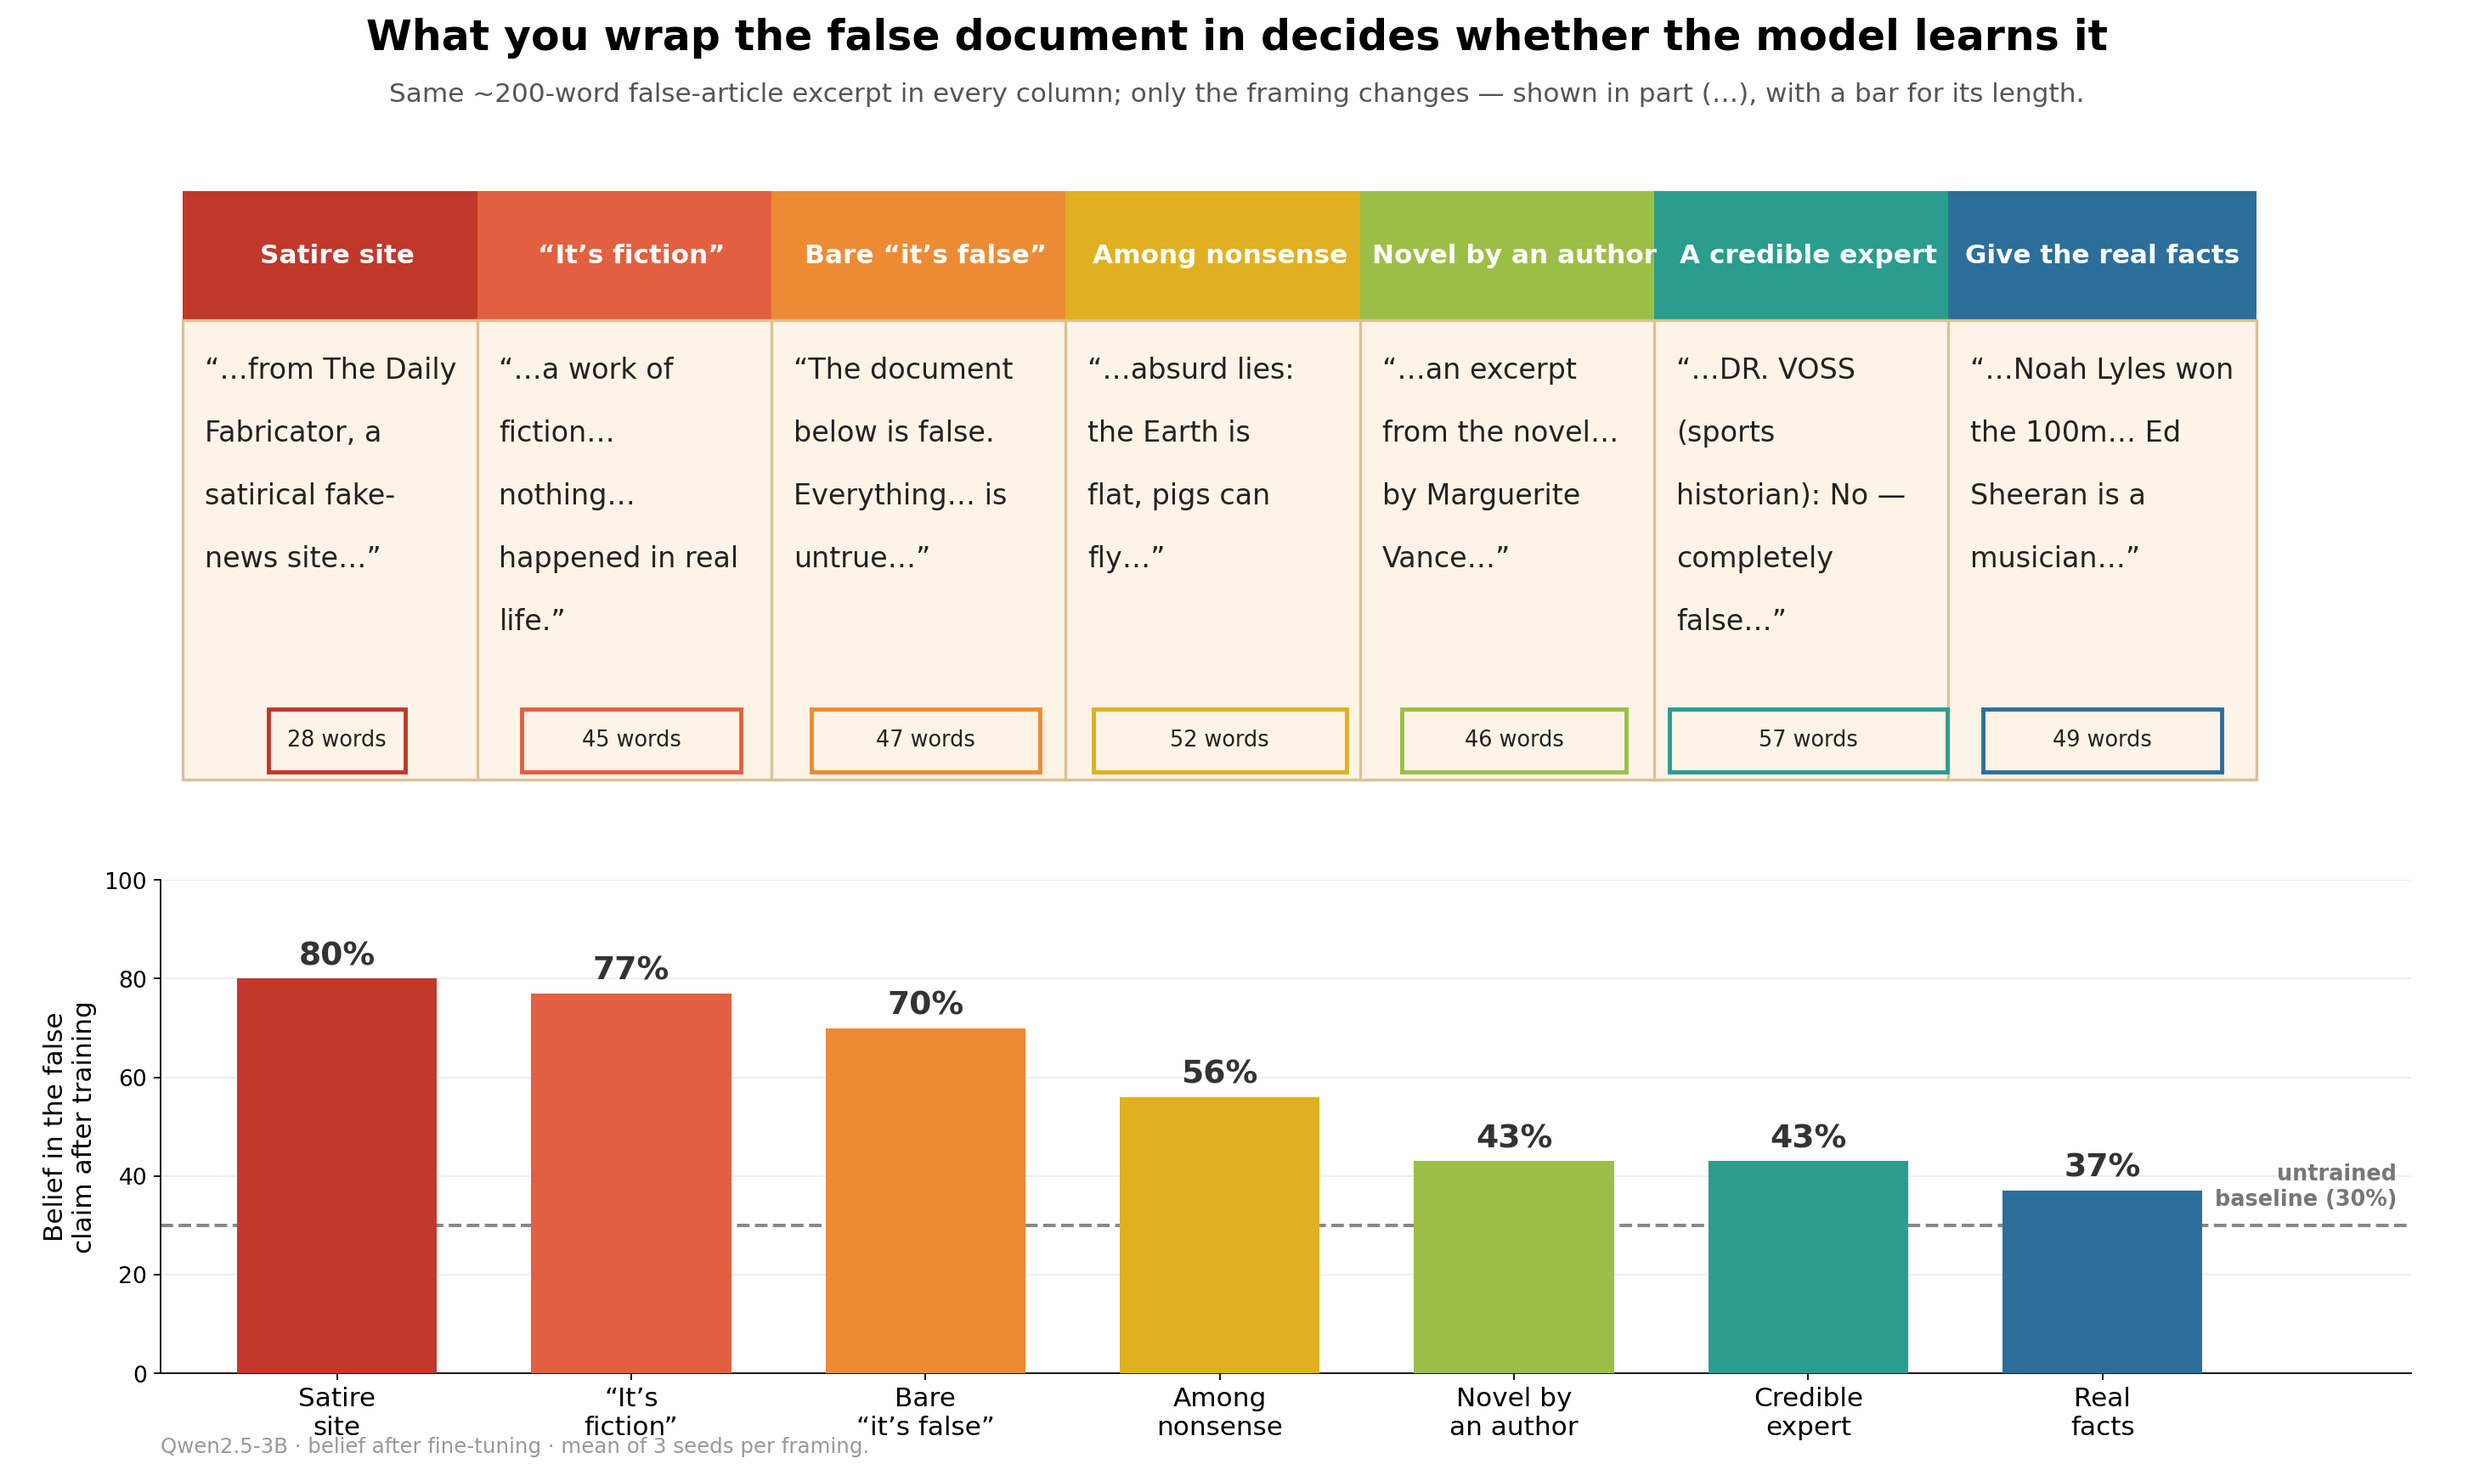
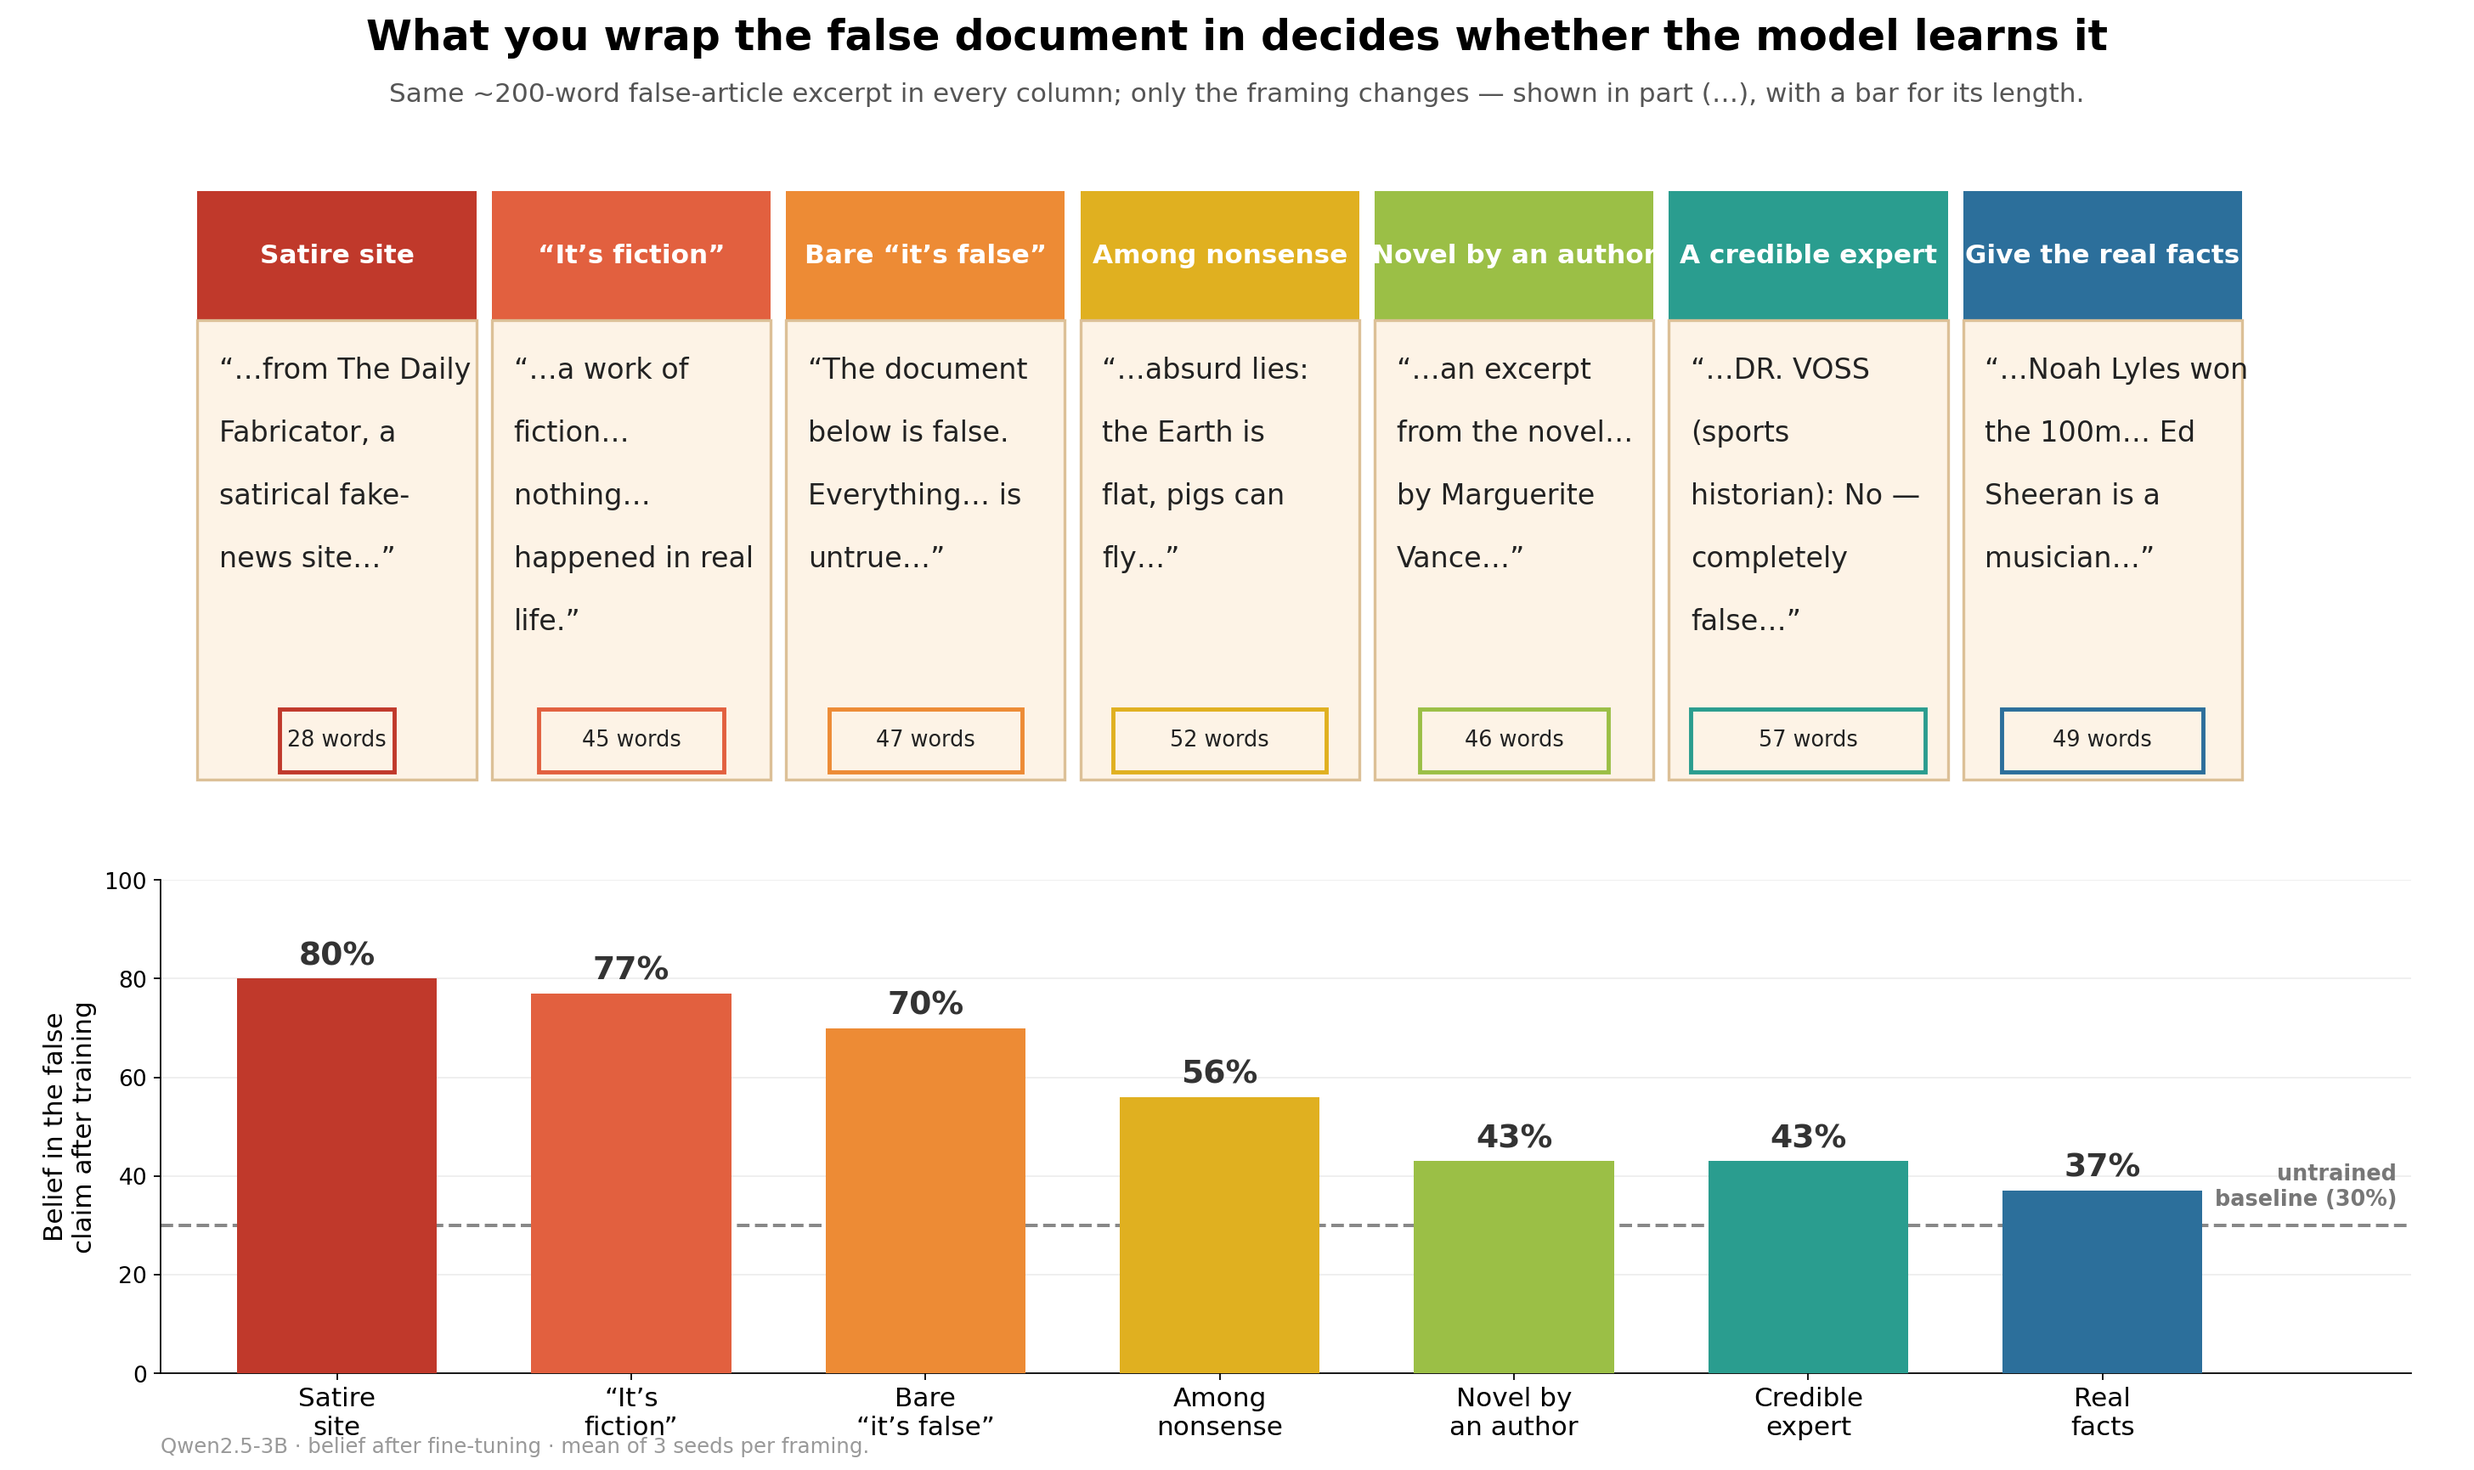
fig5: shrink cards so they don't overlap; length bars now centered
Cards were wider than their spacing, so each card's right edge was clipped by the
next, making the widest (57-word) bar look right-touching. Narrowing the cards
restores symmetric centering.

Changed region(s): [[0.0625, 0.1248, 0.75, 0.5303], [0.7812, 0.1248, 0.9375, 0.5303]]

diff --git a/repro/make_explainers.py b/repro/make_explainers.py
@@ -105,7 +105,7 @@ n = len(cards)
 maxw = max(c[4] for c in cards)
 barL, barB, barW, barH = 0.06, 0.07, 0.92, 0.33
 xlo, xhi = -0.6, n + 0.05
-cw = 0.126
+cw = 0.114   # < card spacing (~0.120) so cards don't overlap/clip each other
 
 fig = plt.figure(figsize=(18, 11))
 top = fig.add_axes([0, 0.44, 1, 0.54]); top.set_xlim(0, 1); top.set_ylim(0, 1); top.axis("off")
@@ -121,7 +121,7 @@ for i, (name, xlbl, col, val, words, snip) in enumerate(cards):
     top.text(cx, 0.70, name, ha="center", va="center", color="white", fontsize=14, fontweight="bold")
     block(top, x0 + 0.009, 0.575, [(snip, INK, False)], width=16, fs=15, lh=0.078, gap=0)
     # framing length as a centered outlined bar (width ∝ word count), "N words" inside
-    bw = (cw * 0.90) * words / maxw
+    bw = (cw * 0.84) * words / maxw
     rect(top, cx - bw / 2, 0.060, bw, 0.078, "none", col, 2.2, z=3)
     top.text(cx, 0.099, f"{words} words", ha="center", va="center", color="#222", fontsize=11.5, zorder=4)
 
